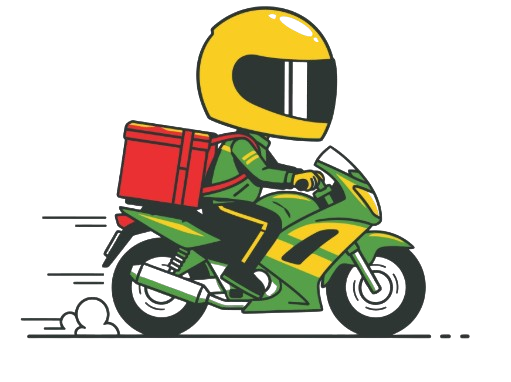
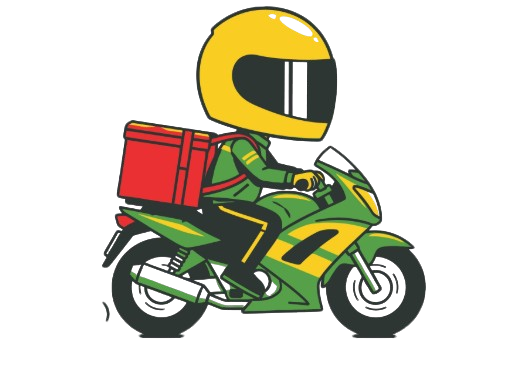
loading and some minor changes

diff --git a/src/components/OrderDetails.tsx b/src/components/OrderDetails.tsx
@@ -143,19 +143,21 @@ export function OrderDetails({ order, onBack, onStartDelivery, onViewMap, isDark
           {/* Order Information Grid */}
           <div className="bg-white/20 backdrop-blur-sm rounded-2xl p-4 mt-3">
             <div className="grid grid-cols-2 gap-3">
-              <div>
+              <div className="min-w-0"> {/* Added min-w-0 to allow shrinking */}
                 <p className="text-blue-100 text-xs mb-1">Distance</p>
                 <p className="text-white">{order.distance}</p>
               </div>
-              <div>
+              <div className="min-w-0"> {/* Added min-w-0 to allow shrinking */}
                 <p className="text-blue-100 text-xs mb-1">Est. Time</p>
                 <p className="text-white">{order.estimatedTime}</p>
               </div>
-              <div>
-                <p className="text-blue-100 text-xs mb-1">Barcode</p>
-                <p className="text-white">{order.barcode}</p>
+              <div className="min-w-0"> {/* Added min-w-0 to allow shrinking */}
+                <p className="text-blue-100 text-xs mb-1">QR code</p>
+                <p className="text-white break-all text-xs overflow-hidden"> {/* Added overflow-hidden */}
+                  {order.barcode}
+                </p>
               </div>
-              <div>
+              <div className="min-w-0"> {/* Added min-w-0 to allow shrinking */}
                 <p className="text-blue-100 text-xs mb-1">OTP Code</p>
                 <p className="text-white">{order.otp}</p>
               </div>
@@ -303,7 +305,7 @@ export function OrderDetails({ order, onBack, onStartDelivery, onViewMap, isDark
         }`}>
           <div className="flex items-center gap-2 mb-4">
             <QrCode className="text-blue-600" size={20} />
-            <h2 className={isDarkMode ? 'text-gray-100' : 'text-gray-800'}>Package QR Code</h2>
+            <h2 className={isDarkMode ? 'text-gray-100' : 'text-gray-800'}>Package QR Code (for testing)</h2>
           </div>
           <div className="flex justify-center">
             <QRCode 
@@ -352,8 +354,8 @@ export function OrderDetails({ order, onBack, onStartDelivery, onViewMap, isDark
             <div className="relative mb-6">
               <div className={`absolute -left-8 w-8 h-8 rounded-full flex items-center justify-center border-4 ${
                 ['accepted', 'en_route_pickup', 'arrived_pickup', 'picked_up', 'en_route_delivery', 'arrived_delivery', 'verified', 'payment_collected', 'completed'].includes(order.status)
-                  ? 'bg-green-600 border-green-600 shadow-lg shadow-green-600/30'
-                  : isDarkMode ? 'bg-gray-800 border-gray-700' : 'bg-white border-gray-300'
+                    ? 'bg-green-600 border-green-600 shadow-lg shadow-green-600/30'
+                    : isDarkMode ? 'bg-gray-800 border-gray-700' : 'bg-white border-gray-300'
               }`}>
                 {['accepted', 'en_route_pickup', 'arrived_pickup', 'picked_up', 'en_route_delivery', 'arrived_delivery', 'verified', 'payment_collected', 'completed'].includes(order.status) ? (
                   <CheckCircle size={16} className="text-white" />
@@ -364,8 +366,8 @@ export function OrderDetails({ order, onBack, onStartDelivery, onViewMap, isDark
               <div className="ml-1">
                 <h3 className={`font-semibold mb-1 ${
                   ['accepted', 'en_route_pickup', 'arrived_pickup', 'picked_up', 'en_route_delivery', 'arrived_delivery', 'verified', 'payment_collected', 'completed'].includes(order.status)
-                    ? isDarkMode ? 'text-green-400' : 'text-green-700'
-                    : isDarkMode ? 'text-gray-500' : 'text-gray-400'
+                      ? isDarkMode ? 'text-green-400' : 'text-green-700'
+                      : isDarkMode ? 'text-gray-500' : 'text-gray-400'
                 }`}>Order Accepted</h3>
                 <p className={`text-xs ${isDarkMode ? 'text-gray-400' : 'text-gray-500'}`}>Parcel ready for pickup</p>
               </div>
@@ -375,10 +377,10 @@ export function OrderDetails({ order, onBack, onStartDelivery, onViewMap, isDark
             <div className="relative mb-6">
               <div className={`absolute -left-8 w-8 h-8 rounded-full flex items-center justify-center border-4 ${
                 ['en_route_pickup', 'arrived_pickup', 'picked_up', 'en_route_delivery', 'arrived_delivery', 'verified', 'payment_collected', 'completed'].includes(order.status)
-                  ? 'bg-green-600 border-green-600 shadow-lg shadow-green-600/30'
-                  : order.status === 'accepted'
-                    ? 'bg-blue-600 border-blue-600 animate-pulse shadow-lg shadow-blue-600/50'
-                    : isDarkMode ? 'bg-gray-800 border-gray-700' : 'bg-white border-gray-300'
+                    ? 'bg-green-600 border-green-600 shadow-lg shadow-green-600/30'
+                    : order.status === 'accepted'
+                      ? 'bg-blue-600 border-blue-600 animate-pulse shadow-lg shadow-blue-600/50'
+                      : isDarkMode ? 'bg-gray-800 border-gray-700' : 'bg-white border-gray-300'
               }`}>
                 {['en_route_pickup', 'arrived_pickup', 'picked_up', 'en_route_delivery', 'arrived_delivery', 'verified', 'payment_collected', 'completed'].includes(order.status) ? (
                   <CheckCircle size={16} className="text-white" />
@@ -391,10 +393,10 @@ export function OrderDetails({ order, onBack, onStartDelivery, onViewMap, isDark
               <div className="ml-1">
                 <h3 className={`font-semibold mb-1 ${
                   ['en_route_pickup', 'arrived_pickup', 'picked_up', 'en_route_delivery', 'arrived_delivery', 'verified', 'payment_collected', 'completed'].includes(order.status)
-                    ? isDarkMode ? 'text-green-400' : 'text-green-700'
-                    : order.status === 'accepted'
-                      ? 'text-blue-600'
-                      : isDarkMode ? 'text-gray-500' : 'text-gray-400'
+                      ? isDarkMode ? 'text-green-400' : 'text-green-700'
+                      : order.status === 'accepted'
+                        ? 'text-blue-600'
+                        : isDarkMode ? 'text-gray-500' : 'text-gray-400'
                 }`}>En Route to Pickup</h3>
                 <p className={`text-xs ${isDarkMode ? 'text-gray-400' : 'text-gray-500'}`}>Rider heading to pickup location</p>
               </div>
@@ -404,10 +406,10 @@ export function OrderDetails({ order, onBack, onStartDelivery, onViewMap, isDark
             <div className="relative mb-6">
               <div className={`absolute -left-8 w-8 h-8 rounded-full flex items-center justify-center border-4 ${
                 ['picked_up', 'en_route_delivery', 'arrived_delivery', 'verified', 'payment_collected', 'completed'].includes(order.status)
-                  ? 'bg-green-600 border-green-600 shadow-lg shadow-green-600/30'
-                  : ['en_route_pickup', 'arrived_pickup'].includes(order.status)
-                    ? 'bg-blue-600 border-blue-600 animate-pulse shadow-lg shadow-blue-600/50'
-                    : isDarkMode ? 'bg-gray-800 border-gray-700' : 'bg-white border-gray-300'
+                    ? 'bg-green-600 border-green-600 shadow-lg shadow-green-600/30'
+                    : ['en_route_pickup', 'arrived_pickup'].includes(order.status)
+                      ? 'bg-blue-600 border-blue-600 animate-pulse shadow-lg shadow-blue-600/50'
+                      : isDarkMode ? 'bg-gray-800 border-gray-700' : 'bg-white border-gray-300'
               }`}>
                 {['picked_up', 'en_route_delivery', 'arrived_delivery', 'verified', 'payment_collected', 'completed'].includes(order.status) ? (
                   <CheckCircle size={16} className="text-white" />
@@ -420,10 +422,10 @@ export function OrderDetails({ order, onBack, onStartDelivery, onViewMap, isDark
               <div className="ml-1">
                 <h3 className={`font-semibold mb-1 ${
                   ['picked_up', 'en_route_delivery', 'arrived_delivery', 'verified', 'payment_collected', 'completed'].includes(order.status)
-                    ? isDarkMode ? 'text-green-400' : 'text-green-700'
-                    : ['en_route_pickup', 'arrived_pickup'].includes(order.status)
-                      ? 'text-blue-600'
-                      : isDarkMode ? 'text-gray-500' : 'text-gray-400'
+                      ? isDarkMode ? 'text-green-400' : 'text-green-700'
+                      : ['en_route_pickup', 'arrived_pickup'].includes(order.status)
+                        ? 'text-blue-600'
+                        : isDarkMode ? 'text-gray-500' : 'text-gray-400'
                 }`}>Order Picked Up</h3>
                 <p className={`text-xs ${isDarkMode ? 'text-gray-400' : 'text-gray-500'}`}>Barcode scanned successfully</p>
               </div>
@@ -433,10 +435,10 @@ export function OrderDetails({ order, onBack, onStartDelivery, onViewMap, isDark
             <div className="relative mb-6">
               <div className={`absolute -left-8 w-8 h-8 rounded-full flex items-center justify-center border-4 ${
                 ['en_route_delivery', 'arrived_delivery', 'verified', 'payment_collected', 'completed'].includes(order.status)
-                  ? 'bg-green-600 border-green-600 shadow-lg shadow-green-600/30'
-                  : order.status === 'picked_up'
-                    ? 'bg-blue-600 border-blue-600 animate-pulse shadow-lg shadow-blue-600/50'
-                    : isDarkMode ? 'bg-gray-800 border-gray-700' : 'bg-white border-gray-300'
+                    ? 'bg-green-600 border-green-600 shadow-lg shadow-green-600/30'
+                    : order.status === 'picked_up'
+                      ? 'bg-blue-600 border-blue-600 animate-pulse shadow-lg shadow-blue-600/50'
+                      : isDarkMode ? 'bg-gray-800 border-gray-700' : 'bg-white border-gray-300'
               }`}>
                 {['en_route_delivery', 'arrived_delivery', 'verified', 'payment_collected', 'completed'].includes(order.status) ? (
                   <CheckCircle size={16} className="text-white" />
@@ -449,10 +451,10 @@ export function OrderDetails({ order, onBack, onStartDelivery, onViewMap, isDark
               <div className="ml-1">
                 <h3 className={`font-semibold mb-1 ${
                   ['en_route_delivery', 'arrived_delivery', 'verified', 'payment_collected', 'completed'].includes(order.status)
-                    ? isDarkMode ? 'text-green-400' : 'text-green-700'
-                    : order.status === 'picked_up'
-                      ? 'text-blue-600'
-                      : isDarkMode ? 'text-gray-500' : 'text-gray-400'
+                      ? isDarkMode ? 'text-green-400' : 'text-green-700'
+                      : order.status === 'picked_up'
+                        ? 'text-blue-600'
+                        : isDarkMode ? 'text-gray-500' : 'text-gray-400'
                 }`}>En Route to Customer</h3>
                 <p className={`text-xs ${isDarkMode ? 'text-gray-400' : 'text-gray-500'}`}>Delivering to customer address</p>
               </div>
@@ -462,10 +464,10 @@ export function OrderDetails({ order, onBack, onStartDelivery, onViewMap, isDark
             <div className="relative mb-6">
               <div className={`absolute -left-8 w-8 h-8 rounded-full flex items-center justify-center border-4 ${
                 ['verified', 'payment_collected', 'completed'].includes(order.status)
-                  ? 'bg-green-600 border-green-600 shadow-lg shadow-green-600/30'
-                  : ['en_route_delivery', 'arrived_delivery'].includes(order.status)
-                    ? 'bg-blue-600 border-blue-600 animate-pulse shadow-lg shadow-blue-600/50'
-                    : isDarkMode ? 'bg-gray-800 border-gray-700' : 'bg-white border-gray-300'
+                    ? 'bg-green-600 border-green-600 shadow-lg shadow-green-600/30'
+                    : ['en_route_delivery', 'arrived_delivery'].includes(order.status)
+                      ? 'bg-blue-600 border-blue-600 animate-pulse shadow-lg shadow-blue-600/50'
+                      : isDarkMode ? 'bg-gray-800 border-gray-700' : 'bg-white border-gray-300'
               }`}>
                 {['verified', 'payment_collected', 'completed'].includes(order.status) ? (
                   <CheckCircle size={16} className="text-white" />
@@ -478,10 +480,10 @@ export function OrderDetails({ order, onBack, onStartDelivery, onViewMap, isDark
               <div className="ml-1">
                 <h3 className={`font-semibold mb-1 ${
                   ['verified', 'payment_collected', 'completed'].includes(order.status)
-                    ? isDarkMode ? 'text-green-400' : 'text-green-700'
-                    : ['en_route_delivery', 'arrived_delivery'].includes(order.status)
-                      ? 'text-blue-600'
-                      : isDarkMode ? 'text-gray-500' : 'text-gray-400'
+                      ? isDarkMode ? 'text-green-400' : 'text-green-700'
+                      : ['en_route_delivery', 'arrived_delivery'].includes(order.status)
+                        ? 'text-blue-600'
+                        : isDarkMode ? 'text-gray-500' : 'text-gray-400'
                 }`}>Customer Verified</h3>
                 <p className={`text-xs ${isDarkMode ? 'text-gray-400' : 'text-gray-500'}`}>OTP/QR code confirmed</p>
               </div>
@@ -491,10 +493,10 @@ export function OrderDetails({ order, onBack, onStartDelivery, onViewMap, isDark
             <div className="relative mb-6">
               <div className={`absolute -left-8 w-8 h-8 rounded-full flex items-center justify-center border-4 ${
                 ['payment_collected', 'completed'].includes(order.status)
-                  ? 'bg-green-600 border-green-600 shadow-lg shadow-green-600/30'
-                  : order.status === 'verified'
-                    ? 'bg-blue-600 border-blue-600 animate-pulse shadow-lg shadow-blue-600/50'
-                    : isDarkMode ? 'bg-gray-800 border-gray-700' : 'bg-white border-gray-300'
+                    ? 'bg-green-600 border-green-600 shadow-lg shadow-green-600/30'
+                    : order.status === 'verified'
+                      ? 'bg-blue-600 border-blue-600 animate-pulse shadow-lg shadow-blue-600/50'
+                      : isDarkMode ? 'bg-gray-800 border-gray-700' : 'bg-white border-gray-300'
               }`}>
                 {['payment_collected', 'completed'].includes(order.status) ? (
                   <CheckCircle size={16} className="text-white" />
@@ -507,10 +509,10 @@ export function OrderDetails({ order, onBack, onStartDelivery, onViewMap, isDark
               <div className="ml-1">
                 <h3 className={`font-semibold mb-1 ${
                   ['payment_collected', 'completed'].includes(order.status)
-                    ? isDarkMode ? 'text-green-400' : 'text-green-700'
-                    : order.status === 'verified'
-                      ? 'text-blue-600'
-                      : isDarkMode ? 'text-gray-500' : 'text-gray-400'
+                      ? isDarkMode ? 'text-green-400' : 'text-green-700'
+                      : order.status === 'verified'
+                        ? 'text-blue-600'
+                        : isDarkMode ? 'text-gray-500' : 'text-gray-400'
                 }`}>Payment Collected</h3>
                 <p className={`text-xs ${isDarkMode ? 'text-gray-400' : 'text-gray-500'}`}>₱{order.totalAmount.toFixed(2)} received</p>
               </div>
@@ -520,10 +522,10 @@ export function OrderDetails({ order, onBack, onStartDelivery, onViewMap, isDark
             <div className="relative">
               <div className={`absolute -left-8 w-8 h-8 rounded-full flex items-center justify-center border-4 ${
                 order.status === 'completed'
-                  ? 'bg-green-600 border-green-600 shadow-lg shadow-green-600/30'
-                  : order.status === 'payment_collected'
-                    ? 'bg-blue-600 border-blue-600 animate-pulse shadow-lg shadow-blue-600/50'
-                    : isDarkMode ? 'bg-gray-800 border-gray-700' : 'bg-white border-gray-300'
+                    ? 'bg-green-600 border-green-600 shadow-lg shadow-green-600/30'
+                    : order.status === 'payment_collected'
+                      ? 'bg-blue-600 border-blue-600 animate-pulse shadow-lg shadow-blue-600/50'
+                      : isDarkMode ? 'bg-gray-800 border-gray-700' : 'bg-white border-gray-300'
               }`}>
                 {order.status === 'completed' ? (
                   <CheckCircle size={16} className="text-white" />
@@ -536,10 +538,10 @@ export function OrderDetails({ order, onBack, onStartDelivery, onViewMap, isDark
               <div className="ml-1">
                 <h3 className={`font-semibold mb-1 ${
                   order.status === 'completed'
-                    ? isDarkMode ? 'text-green-400' : 'text-green-700'
-                    : order.status === 'payment_collected'
-                      ? 'text-blue-600'
-                      : isDarkMode ? 'text-gray-500' : 'text-gray-400'
+                      ? isDarkMode ? 'text-green-400' : 'text-green-700'
+                      : order.status === 'payment_collected'
+                        ? 'text-blue-600'
+                        : isDarkMode ? 'text-gray-500' : 'text-gray-400'
                 }`}>Delivery Completed</h3>
                 <p className={`text-xs ${isDarkMode ? 'text-gray-400' : 'text-gray-500'}`}>Proof of delivery submitted</p>
               </div>

diff --git a/src/components/Dashboard.tsx b/src/components/Dashboard.tsx
@@ -60,15 +60,39 @@ export function Dashboard({ orders, onSelectOrder, onNavigateToAssignments, onNa
       {/* Welcome Animation Overlay */}
       {showWelcome && (
         <div className="fixed inset-0 bg-gradient-to-br from-blue-600 to-indigo-700 z-50 flex items-center justify-center animate-fade-out" style={{ animation: 'fadeOut 1s ease-in-out 2s forwards' }}>
-          <div className="text-center text-white animate-bounce">
-            <img 
-              src={logoImage} 
-              alt="Logo" 
-              className="w-24 h-24 mx-auto mb-4 animate-pulse"
-            />
-            <h1 className="text-3xl mb-2">Welcome Back!</h1>
-            <p className="text-blue-200">Let{"'"}s make today great 🚀</p>
-          </div>
+          <div className="text-center text-white overflow-x-hidden h-32 flex flex-col items-start">
+  <img 
+    src={logoImage} 
+    alt="Logo" 
+    className="w-24 h-24 mb-4 animate-motor-right"
+  />
+  <h1 className="text-3xl mb-2 w-full text-center">Welcome Back!</h1>
+  <p className="text-blue-200 w-full text-center">Let{"'"}s make today great 🚀</p>
+  
+  <style jsx>{`
+    @keyframes motorRight {
+      0% {
+        transform: translateX(-120vw);
+      }
+      100% {
+        transform: translateX(120vw);
+      }
+    }
+    
+    .animate-motor-right {
+      display: inline-block;
+      transform: translateX(-120vw);      /* same as 0% frame */
+      animation-name: motorRight;
+      animation-duration: 3s;
+      animation-timing-function: ease-in-out;
+      animation-delay: 0s;
+      animation-iteration-count: 1;
+      animation-fill-mode: forwards;
+      will-change: transform;
+    }
+  `}</style>
+</div>
+
         </div>
       )}
 

diff --git a/src/components/ui/menubar.tsx b/src/components/ui/menubar.tsx
@@ -1,7 +1,7 @@
 "use client";
 
 import * as React from "react";
-import * as MenubarPrimitive from "@radix-ui/react-menubar@1.1.6";
+import * as MenubarPrimitive from "@radix-ui/react-menubar";
 import { CheckIcon, ChevronRightIcon, CircleIcon } from "lucide-react@0.487.0";
 
 import { cn } from "./utils";

diff --git a/src/components/ui/label.tsx b/src/components/ui/label.tsx
@@ -1,7 +1,7 @@
 "use client";
 
 import * as React from "react";
-import * as LabelPrimitive from "@radix-ui/react-label@2.1.2";
+import * as LabelPrimitive from "@radix-ui/react-label";
 
 import { cn } from "./utils";
 
